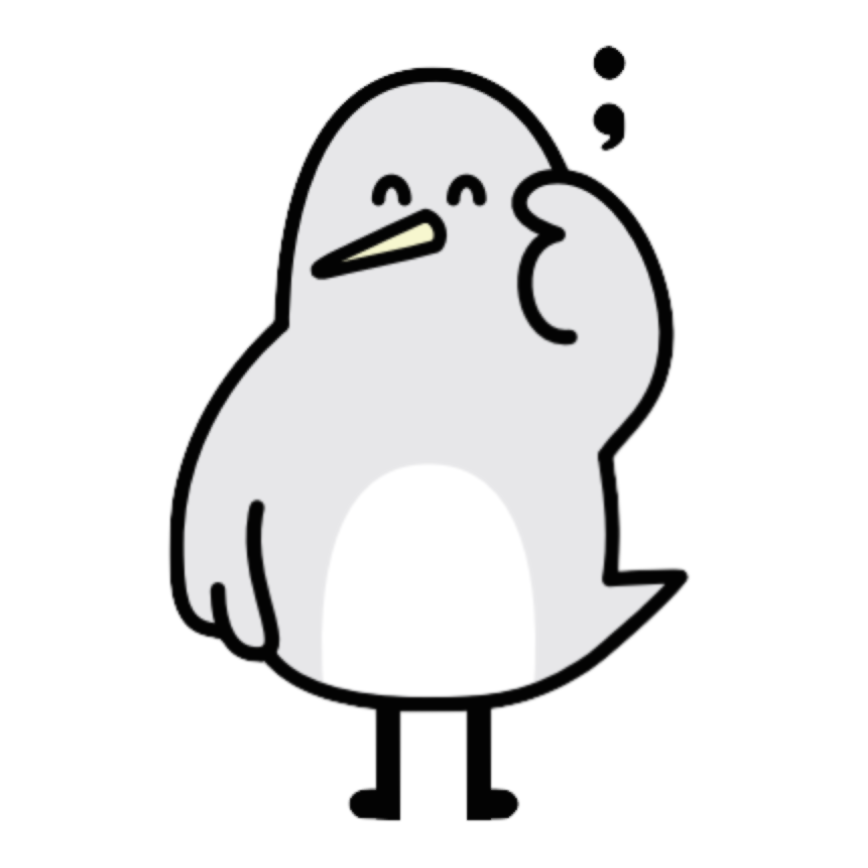
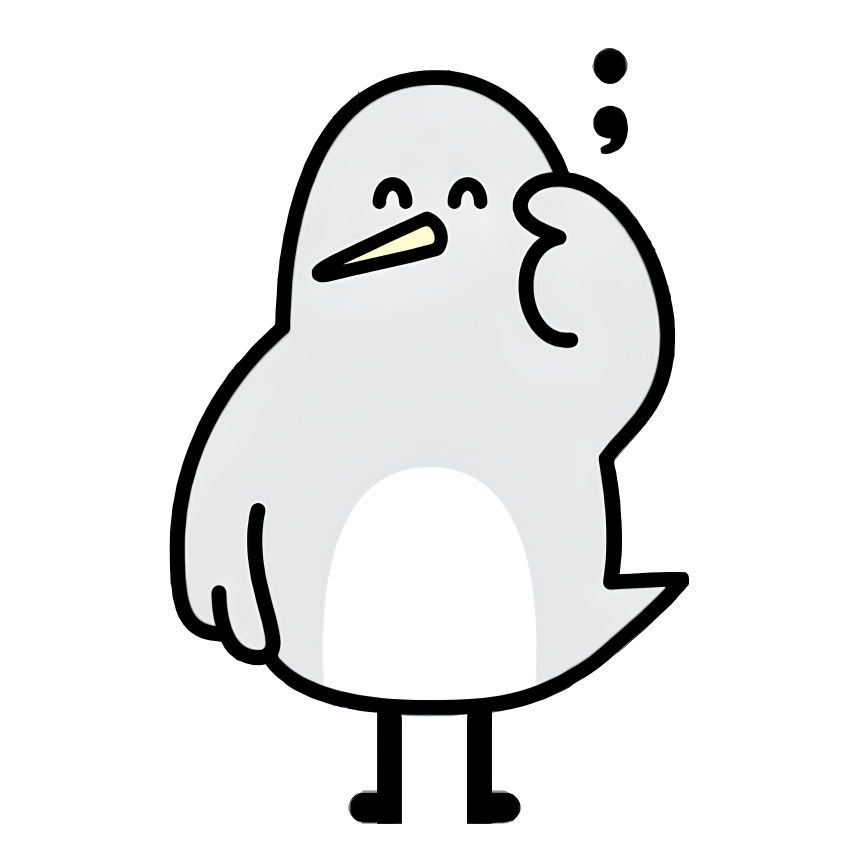
design: 위치 틀어진 머쓱 이미지 수정

diff --git a/packages/web/src/pages/Newpost/index.tsx b/packages/web/src/pages/Newpost/index.tsx
@@ -180,16 +180,7 @@ const NewPost = () => {
         <Box cursor="pointer" bgColor="white" width="auto" borderRadius="10px" border="1px" borderColor="#D4D8CA">
           <Flex justify="center">
             {Object.entries(MUSSEUK).map(([key, value]) => (
-              <MusseukItem
-                key={key}
-                alt={key}
-                src={value.src}
-                transform={{
-                  base: value.smallTransform,
-                  sm: value.transform
-                }}
-                onClick={handleClickMusseuk}
-              />
+              <MusseukItem key={key} alt={key} src={value.src} onClick={handleClickMusseuk} />
             ))}
           </Flex>
         </Box>

diff --git a/packages/web/src/pages/Main/components/MusseukImage.tsx b/packages/web/src/pages/Main/components/MusseukImage.tsx
@@ -15,13 +15,13 @@ const MusseukImage = () => {
         }}
         w={{
           base: '90%',
-          lg: '40rem'
+          lg: 'auto'
         }}
         h={{
           base: 'auto',
           lg: '30rem'
         }}
-        top="3.3rem"
+        top="8rem"
         right="1rem"
         src={musseuk_semicolon}
         alt="musseuk_semicolon"
